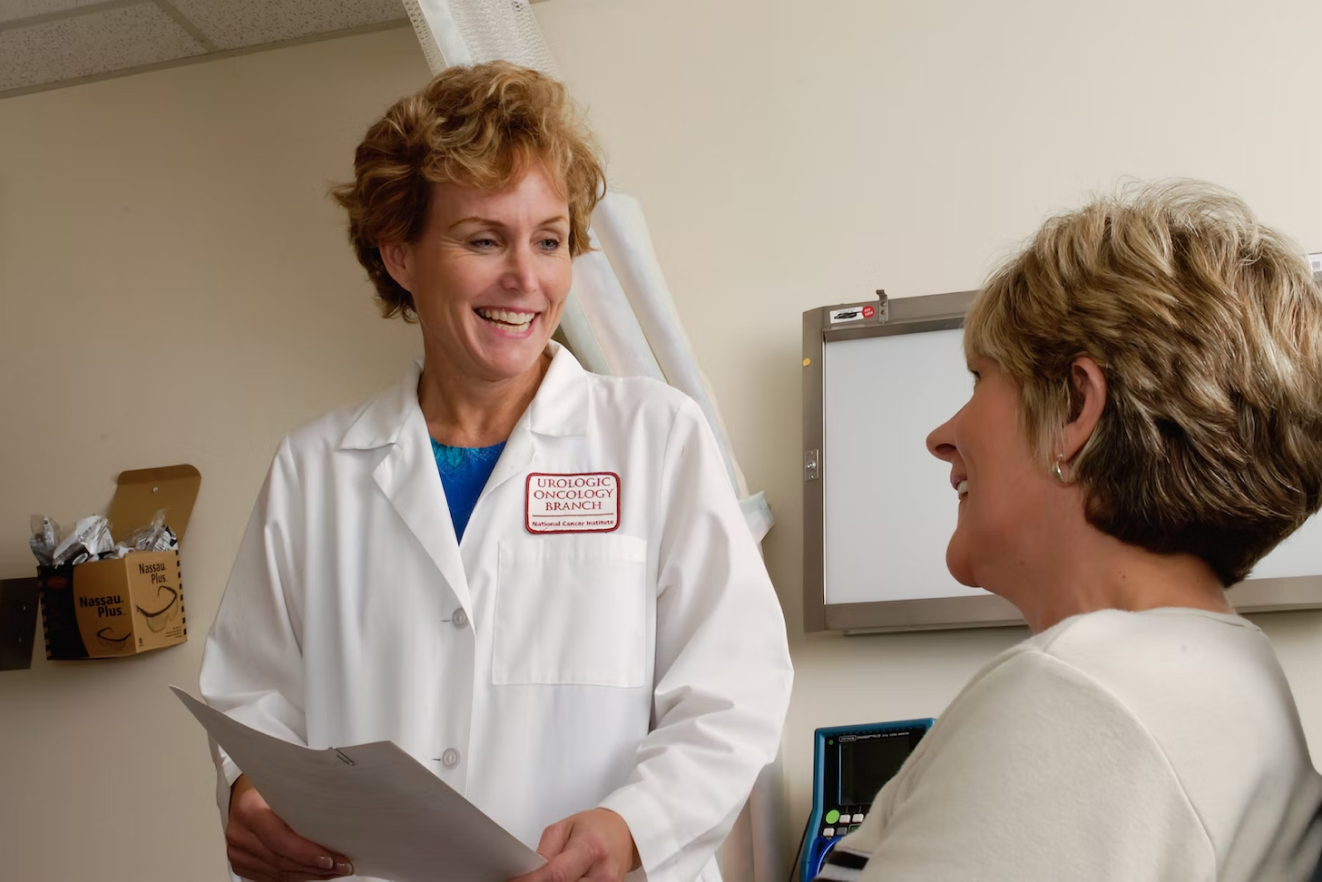
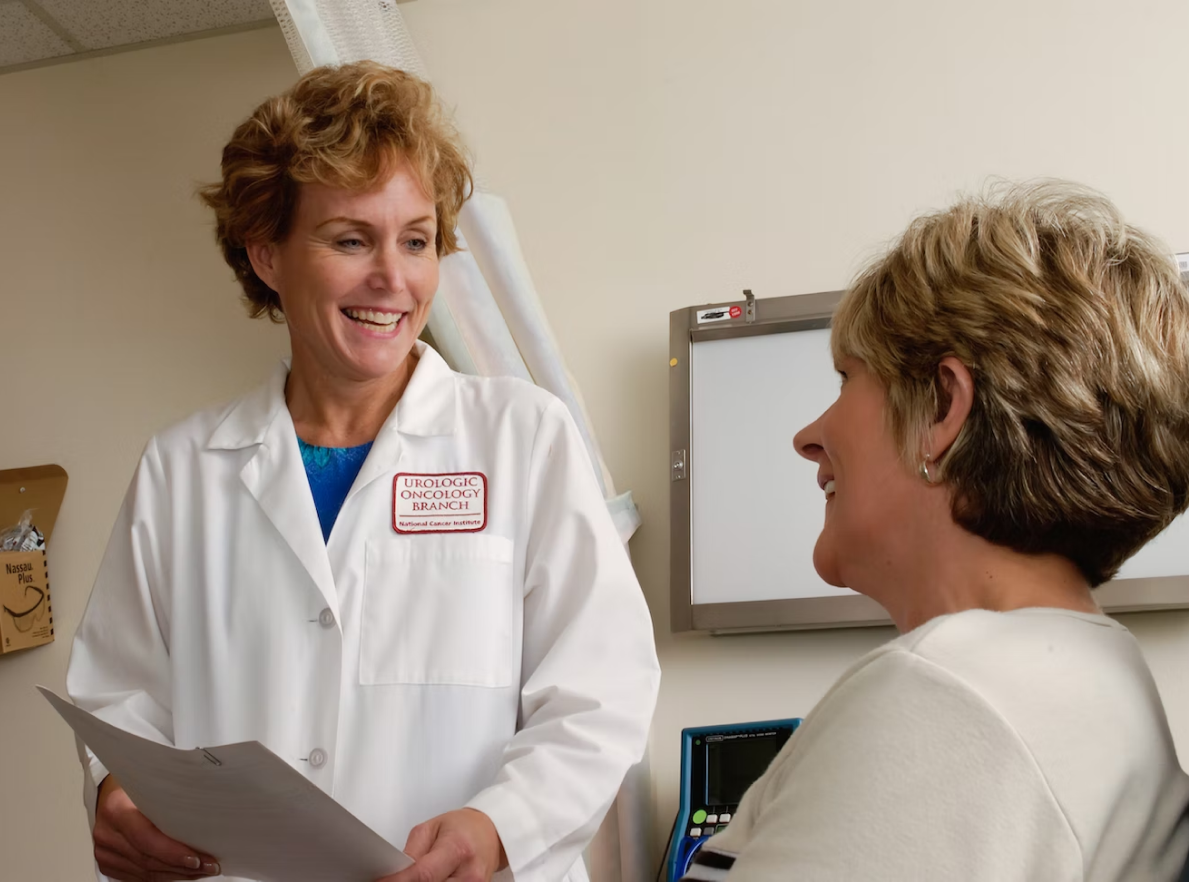
changes in the hero image

diff --git a/pages/signDoctor.vue b/pages/signDoctor.vue
@@ -4,25 +4,28 @@
   <div class="container py-5 ">
     <div class="row d-flex align-items-center justify-content-center ">
       <div class="col-md-7 col-lg-5 col-xl-5 ">
-        <form>
+        <form @submit="loginUser">
           <h1 class="fw-bold text-center">Welcome Back !!</h1>
           <!-- Email input -->
           <div class="form-outline mb-4 my-4">
             <label class="form-label" for="form1Example13"><h5>Enter Email</h5></label>
-            <input type="email" id="form1Example13"  placeholder="Enter Your Password" class="form-control form-control" />
+            <input v-model="identifier" type="email" id="form1Example13" 
+             placeholder="Enter Your Email" class="form-control form-control" />
           </div>
 
           <!-- Password input -->
           <div class="form-outline mb-4">
             <label class="form-label" for="form1Example23"><h5>Enter Password</h5></label> 
-            <input type="password" id="form1Example23" placeholder="Enter Your Password" class="form-control form-control" />
+            <input v-model="password" type="password" id="form1Example23" 
+            placeholder="Enter Your Password" class="form-control form-control" />
           </div>
           
 
 
           <div class="d-grid">
                  <!-- Button trigger modal -->
-                    <a class="btn btn-color fw-bold btn-lg" href="#" data-bs-toggle="modal" data-bs-target="#exampleModal"
+                    <a class="btn btn-color fw-bold btn-lg" href="#" 
+                    :disabled="identifier === '' || password === ''"  type="submit" data-bs-target="#exampleModal"
                     role="button">Login</a>
 
                 <!-- Modal -->
@@ -37,9 +40,9 @@
                        <p>Enter the 4-digits code sent to your e-mail</p>
                        <div class="col-md-5  gap-3 d-flex justify-content-evenly">
                         <input type="text" class="form-control px-3" id="inputCode">
-                        <input type="text" class="form-control px-3" id="inputCode">
-                        <input type="text" class="form-control px-3" id="inputCode">
-                        <input type="text" class="form-control px-3" id="inputCode">
+                        <input type="text" class="form-control px-3" id="inputCode2">
+                        <input type="text" class="form-control px-3" id="inputCode3">
+                        <input type="text" class="form-control px-3" id="inputCode4">
                     </div>
                     </div>
 
@@ -64,33 +67,6 @@
   
     </section>
 
-    <form @submit="loginUser">
-          <div>
-            <input
-              v-model="identifier"
-              class="p-3 my-5 border w-full"
-              type="email"
-              placeholder="email"
-            />
-          </div>
-          <div>
-            <input
-              v-model="password"
-              class="p-3 my-5 border w-full"
-              type="password"
-              placeholder="password"
-            />
-          </div>
-          <div>
-            <button
-              :disabled="identifier === '' || password === ''"
-              class="button--green"
-              type="submit"
-            >
-              Login
-            </button>
-          </div>
-        </form>
     
   </div>
 </template>

diff --git a/pages/register.vue b/pages/register.vue
@@ -4,24 +4,30 @@
     <div class="container py-5 ">
       <div class="row d-flex align-items-center justify-content-center ">
         <div class="col-md-7 col-lg-5 col-xl-5 ">
-          <form>
+          <form @submit="createUser">
+            <div v-show="error !== ''" class="p-3 border">
+         <p>{{ error }}</p>
+            </div>
             <h1 class="fw-bold text-center">Create  Account,To Get Started Now</h1>
             <!-- Email input -->
             <div class="form-outline mb-4 my-4">
               <label class="form-label" for="form1Example13"><h5>Enter Email</h5></label>
-              <input type="email" id="form1Example13"  placeholder="Enter Your Email" class="form-control form-control" />
+              <input type="email" id="form1Example13"  v-model="email"
+               placeholder="Enter Your Email" class="form-control form-control" />
             </div>
   
             <!-- Password input -->
             <div class="form-outline mb-4">
               <label class="form-label" for="form1Example23"><h5>Enter Password</h5></label> 
-              <input type="password" id="form1Example23" placeholder="Enter Your Password" class="form-control form-control" />
+              <input type="password" id="form1Example23" v-model="password"
+              placeholder="Enter Your Password" class="form-control form-control" />
             </div>
 
               <!-- Confirm Password input -->
               <div class="form-outline mb-4">
               <label class="form-label" for="form1Example23"><h5>Confirm Password</h5></label> 
-              <input type="password" id="form1Example23" placeholder="Confirm Your Password" class="form-control form-control" />
+              <input type="password" id="form1Example23"  v-model="confirmPassword"
+              placeholder="Confirm Your Password" class="form-control form-control" />
             </div>
             <div class="d-grid">
               <a class="btn btn-color btn-lg" href="#" role="button">Signup</a>
@@ -37,10 +43,40 @@
   </div>
   </div>
     </div>
-    
       </section>
   
   
       
     </div>
   </template>
+  <script>
+  export default {
+    data() {
+      return {
+        email: '',
+        password: '',
+        confirmPassword: '',
+        error: '',
+      }
+    },
+    methods: {
+      async createUser(e) {
+        e.preventDefault()
+        try {
+          const newUser = await this.$strapi.register({
+            email: this.email,
+            username: this.password,
+            password: this.confirmPassword,
+          })
+          console.log(newUser)
+          if (newUser !== null) {
+            this.error = ''
+            this.$nuxt.$router.push('/index')
+          }
+        } catch (error) {
+          this.error = error.message
+        }
+      },
+    },
+  }
+  </script>

diff --git a/assets/css/main.css b/assets/css/main.css
@@ -187,17 +187,14 @@
   color:#F6F5F0;
   text-shadow: 0px 4px 4px rgba(0, 0, 0, 0.25);
 }
-.hero{
-width: 100%;
+.hero {
 background-image: linear-gradient(0deg, #000000 -26.28%, rgba(54, 54, 54, 0) 100%),url("~/assets/img/pexels-los-muertos-crew-8460377 1.png" );
-background-size: cover;
-height:750px;
-width: 100%;
-background-position: center;
+height: 100vh;
+background-size: 100% 100%;
 background-repeat: no-repeat;
 position: relative;
-
 }
+
 /*** btn style ***/
 .btn-color{
   background-color:#E4D1BF;

diff --git a/nuxt.config.js b/nuxt.config.js
@@ -47,7 +47,7 @@ export default {
   
   strapi: {
     url: process.env.STRAPI_URL || `http://localhost:1337/api`,
-    entities: ['Login'],
+    entities: ['articles'],
   },
   /*
   ** Build configuration
